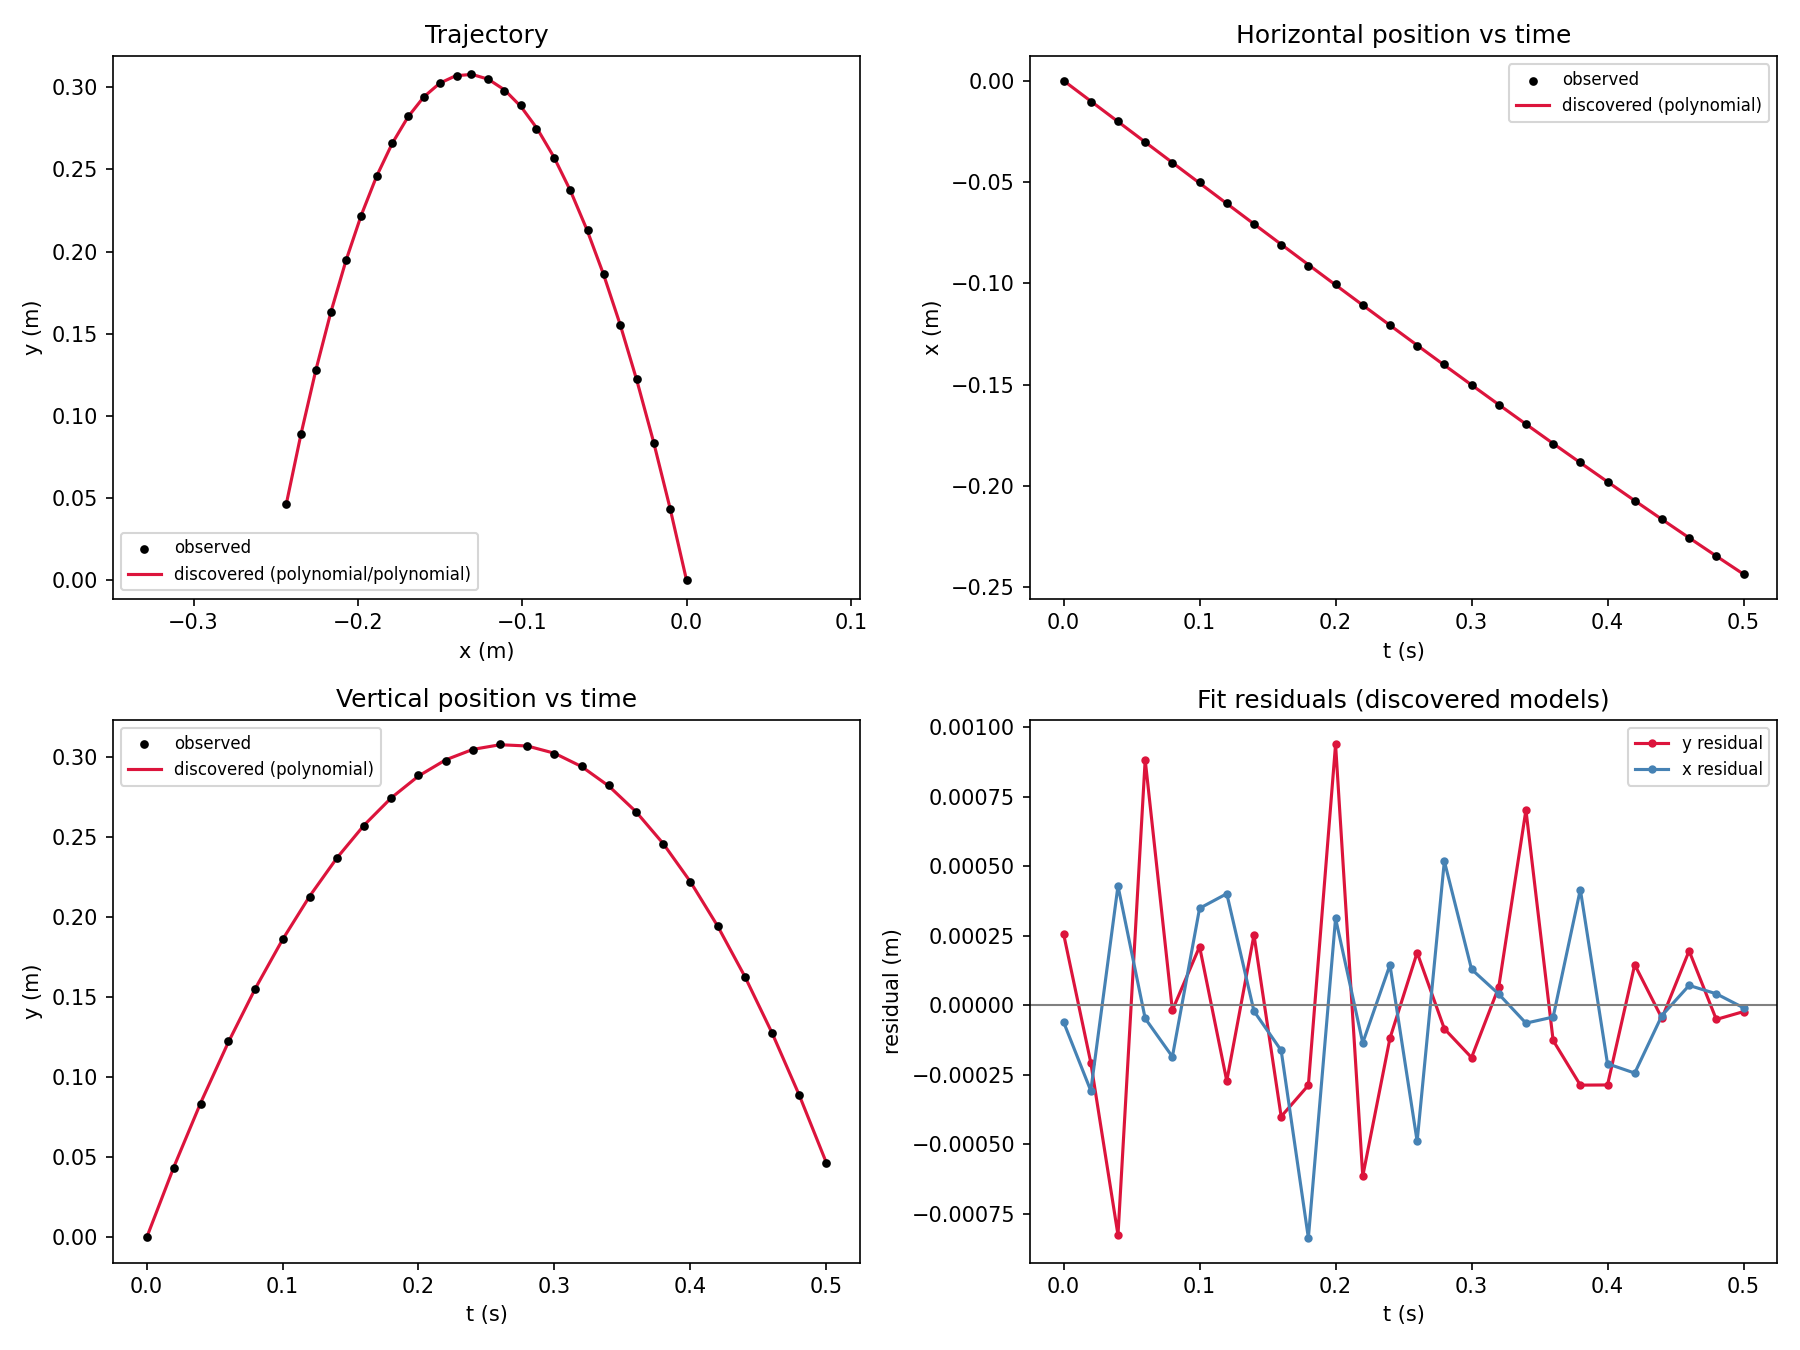
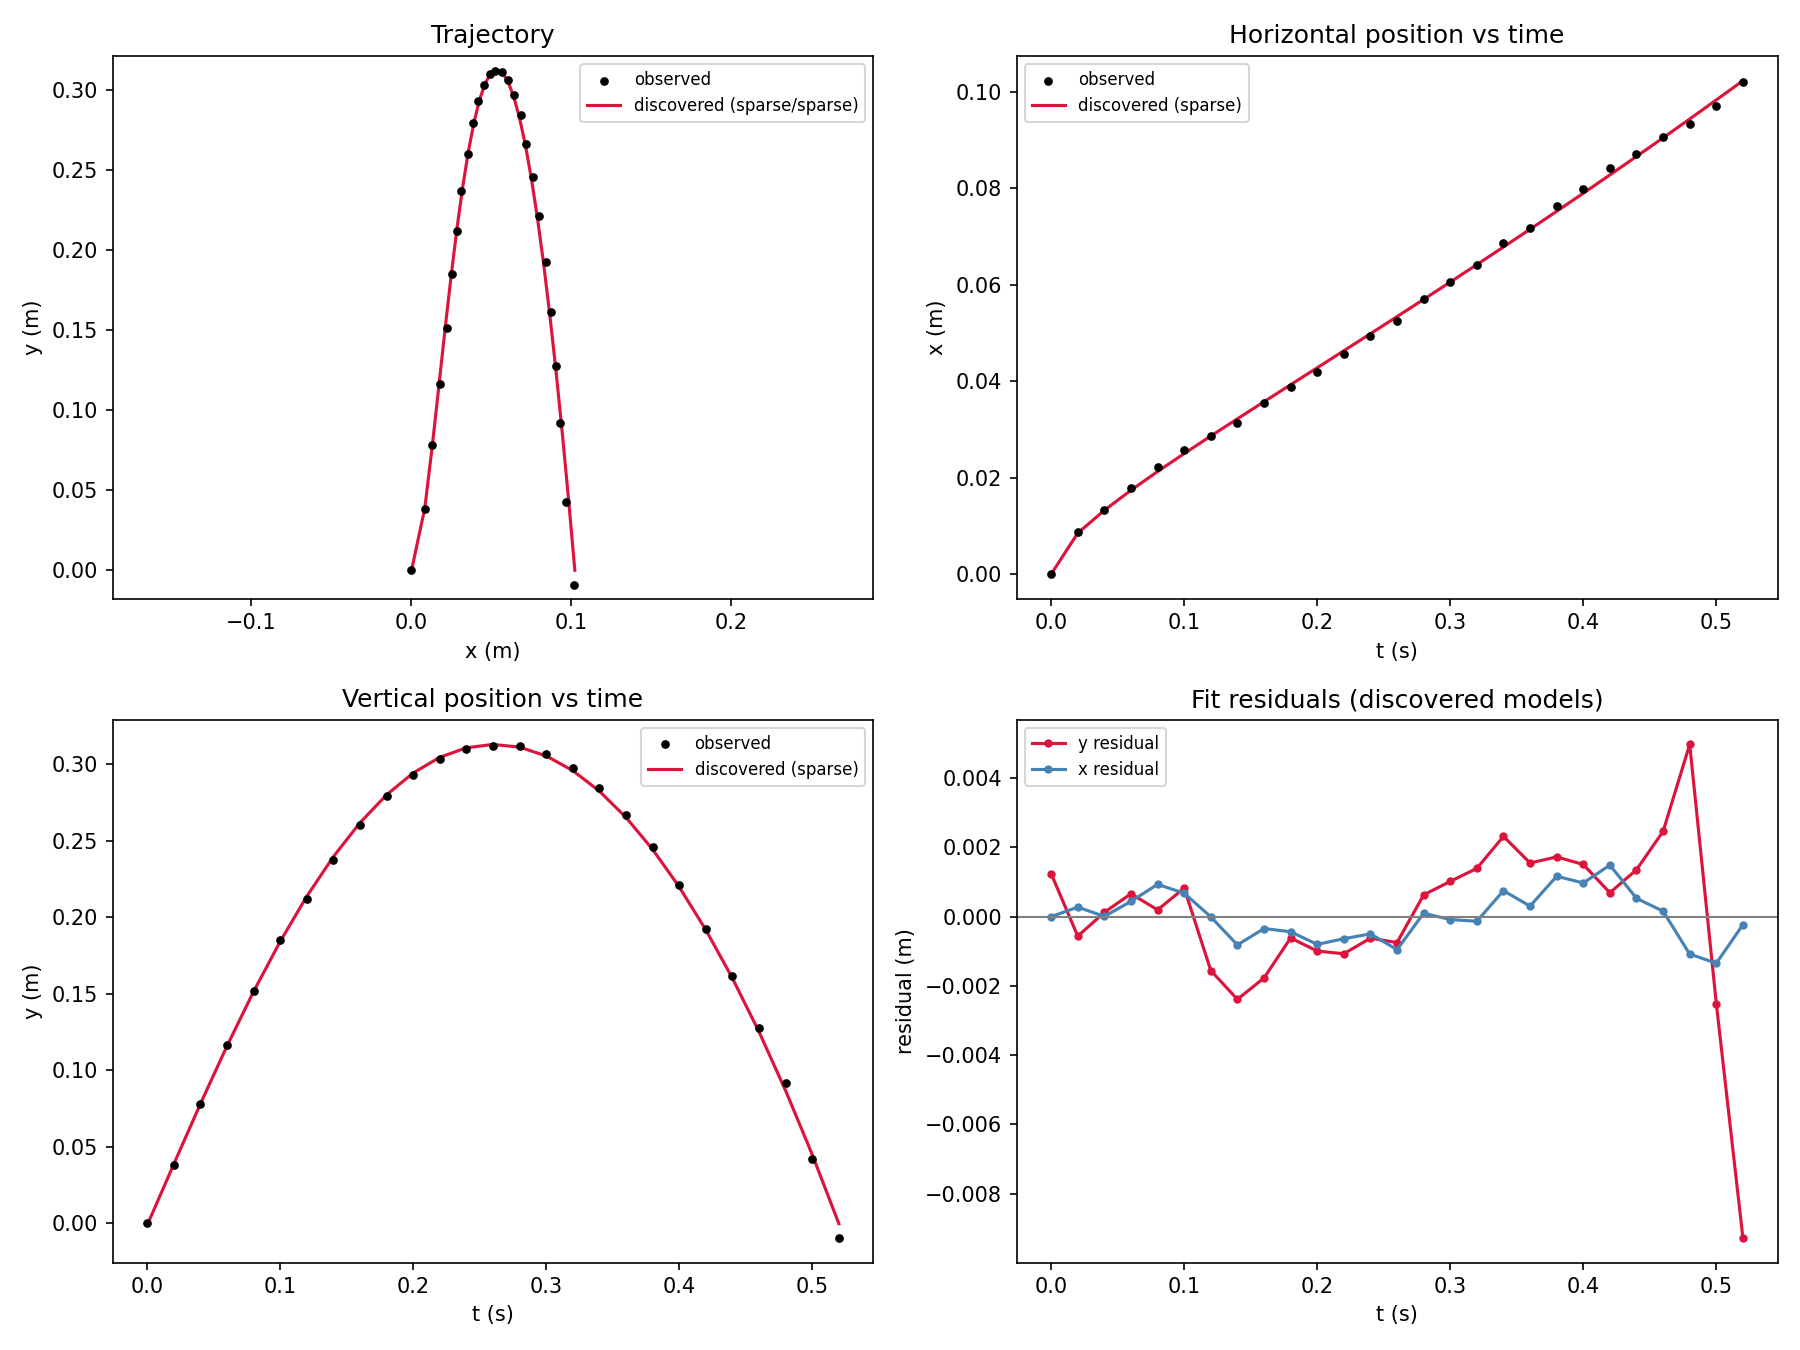
readme example with limit max_degree=2

diff --git a/physics_discovery.py b/physics_discovery.py
@@ -168,8 +168,10 @@ def build_library(t, extra_exp_rates=(0.5, 1.0, 2.0, 5.0, 10.0)):
     coefficient). Sparse regression below decides which of these, if any,
     actually belong in the equation.
     """
-    names = ["1", "t", "t^2", "t^3", "t^4"]
-    cols = [np.ones_like(t), t, t ** 2, t ** 3, t ** 4]
+    # names = ["1", "t", "t^2", "t^3", "t^4"]
+    # cols = [np.ones_like(t), t, t ** 2, t ** 3, t ** 4]
+    names = ["1", "t", "t^2"]
+    cols = [np.ones_like(t), t, t ** 2]
 
     t_safe = np.clip(t, 0, None)
     names.append("sqrt(t)")
